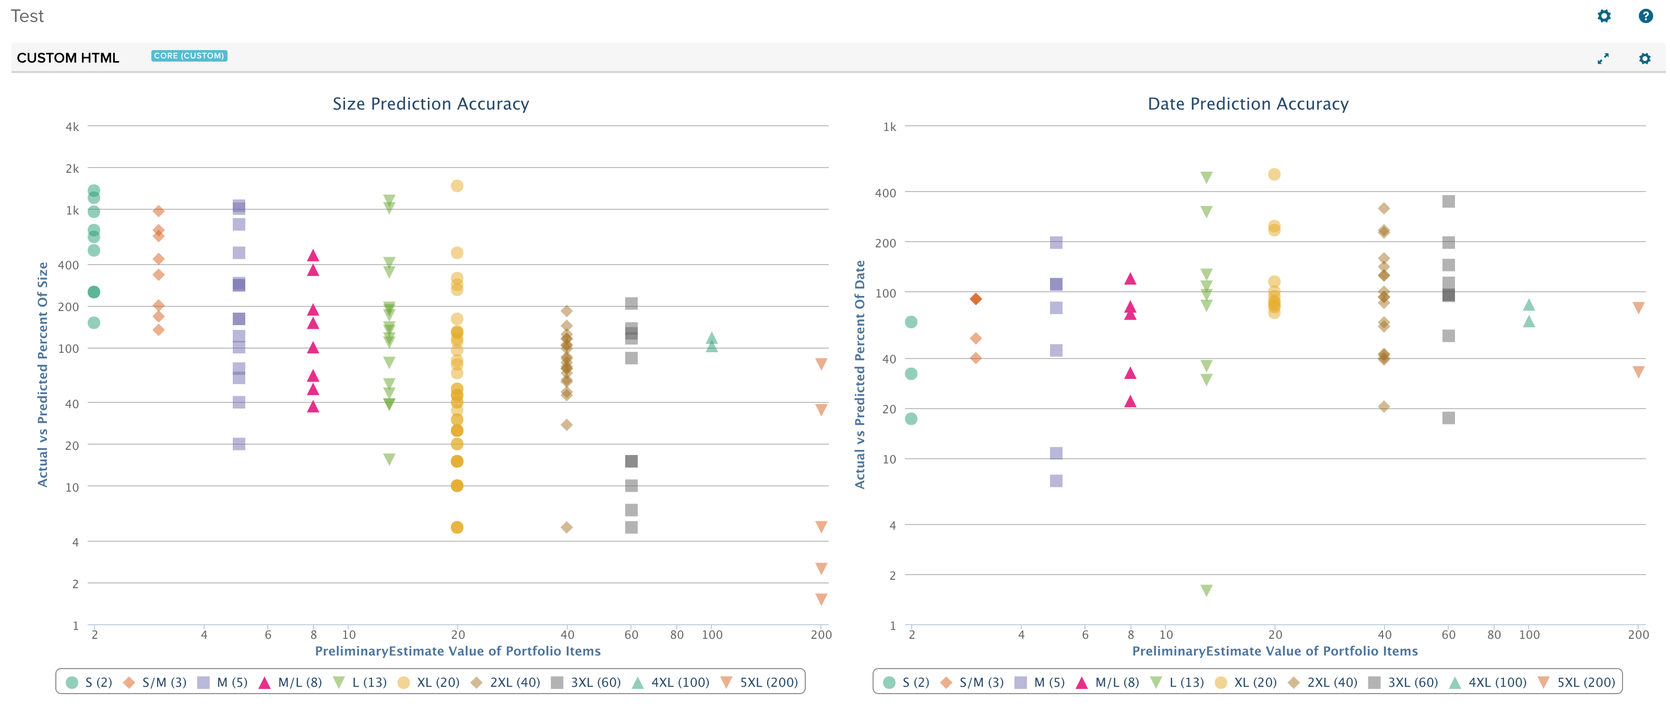
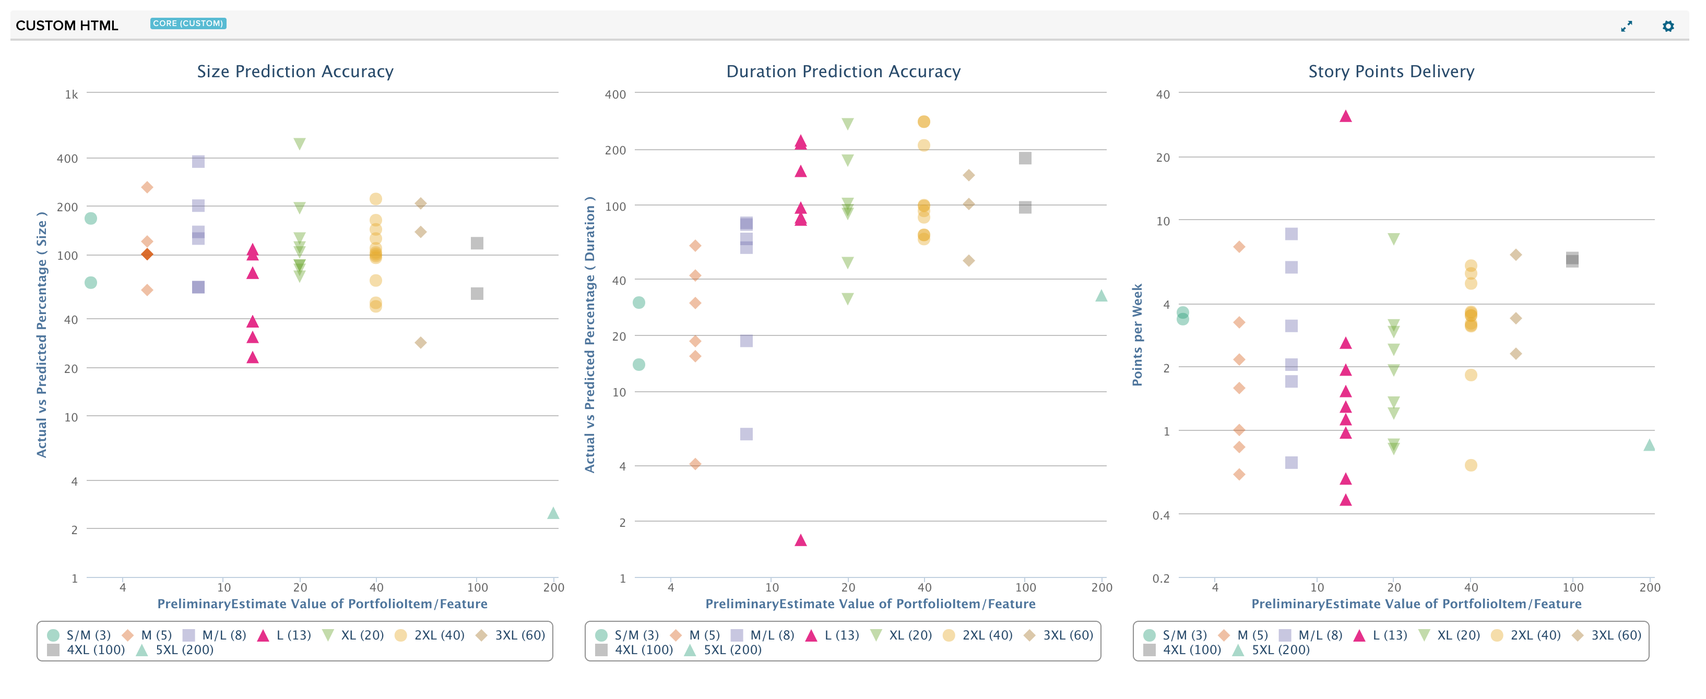
Added third chart

diff --git a/deploy/App-external.html b/deploy/App-external.html
@@ -1,16 +1,16 @@
 <!DOCTYPE html>
 <html>
 <head>
-    <title>PI Forcecast Accuracy</title>
+    <title>PI Forecast Accuracy</title>
 
     <script type="text/javascript" src="https://rally1.rallydev.com/apps/2.1/sdk.js"></script>
 
     <script type="text/javascript">
         Rally.onReady(function () {
-                Ext.define("ForcastAccuracy",{extend:"Rally.app.App",componentCls:"app",itemId:"rallyApp",progressField:"AcceptedLeafStoryCount",config:{defaultSettings:{fetchLimit:100,EndDate:new Date,StartDate:new Date(Ext.Date.now()-7776e6)}},items:[{xtype:"container",itemId:"chartBox",layout:"hbox"}],getSettingsFields:function(){return[{xtype:"rallyportfolioitemtypecombobox",name:"piType",label:" Portfolio Type",labelWidth:200,valueField:"TypePath"},{xtype:"rallynumberfield",name:"fetchLimit",label:"Max Fetch Limit",labelWidth:200,maxValue:200,minValue:1,allowDecimals:!1},{xtype:"rallydatefield",name:"StartDate",fieldLabel:"Start Date",labelWidth:200,format:"F j, Y"},{xtype:"rallydatefield",name:"EndDate",labelWidth:200,fieldLabel:"End Date",format:"F j, Y"}]},launch:function(){this.showMask("Fetching items with historical data..."),this.model=this.getSetting("piType")||"Portfolioitem/Feature",this.start=new Date(this.getSetting("StartDate")||Ext.Date.now()-7776e6),this.end=new Date(this.getSetting("EndDate")||Ext.Date.now()),this._fetchItems()},onSettingsUpdate:function(){this._clearStatus(),this._fetchItems()},_clearStatus:function(){this.store&&this.store.destroy()},showMask:function(t){this.getEl()&&(this.getEl().unmask(),this.getEl().mask(t))},hideMask:function(){this.getEl()&&this.getEl().unmask()},_fetchItems(){var t=this;t.store=Ext.create("Rally.data.wsapi.Store",{model:t.model,pageSize:t.getSetting("fetchLimit")||200,fetch:["ObjectID","FormattedID","PreliminaryEstimate","RefinedEstimate","LeafStoryCount","LeafStoryPlanEstimateTotal","PreliminaryEstimateValue","ActualStartDate","ActualEndDate","PlannedStartDate","PlannedEndDate"],autoLoad:!0,filters:[{property:"ActualEndDate",operator:"<",value:t.end},{property:"ActualEndDate",operator:">",value:t.start}],listeners:{load:function(e,a,i){if(i)if(e.getCount()){Rally.ui.notify.Notifier.show({message:"Working with "+e.getCount()+" (of "+e.totalCount+") Historical Data Items",timeout:5e3}),t.sizeMetrics=[];var r=0;for(r=0;r<e.getCount();r++)a[r].get("PreliminaryEstimate")&&t.sizeMetrics.push({groupBy:a[r].get("PreliminaryEstimate")._refObjectName,x:a[r].get("PreliminaryEstimateValue"),y:a[r].get("LeafStoryPlanEstimateTotal")/a[r].get("PreliminaryEstimateValue")*100,name:a[r].get("FormattedID")});for(t.sizeMetrics=_.sortBy(t.sizeMetrics,["x"]),t._updateSizeMetricsChart(),t.dateMetrics=[],r=0;r<e.getCount();r++){var s=a[r].get("ActualStartDate"),o=a[r].get("ActualEndDate"),n=a[r].get("PlannedStartDate"),l=a[r].get("PlannedEndDate");if(a[r].get("PreliminaryEstimate"))if(s&&o&&n&&l){var d=(new Date(o)-new Date(s))/(new Date(l)-new Date(n))*100;t.dateMetrics.push({groupBy:a[r].get("PreliminaryEstimate")._refObjectName,x:a[r].get("PreliminaryEstimateValue"),y:d,name:a[r].get("FormattedID")})}else t.dateMetrics.push({groupBy:a[r].get("PreliminaryEstimate")._refObjectName,x:a[r].get("PreliminaryEstimateValue"),y:0,name:a[r].get("FormattedID")})}t.dateMetrics=_.sortBy(t.dateMetrics,["x"]),t._updateDateMetricsChart(),t.hideMask()}else Rally.ui.notify.Notifier.showWarning({message:"No Historical Data found within date range"}),t.hideMask();else t.hideMask()}}})},_getHistoricalData:function(t,e){var a=new Deft.Deferred,i=Ext.merge({ObjectID:t.get("ObjectID")},e._getProgressField());return Ext.create("Rally.data.lookback.SnapshotStore",{autoLoad:!0,limit:1/0,compress:!0,removeUnauthorizedSnapshots:!0,pageSize:2e3,listeners:{load:function(t,i,r){r?(e.showMask("Fetched change records for "+ ++e.fetchedCount+" items"),a.resolve(t)):a.reject()}},fetch:["FormattedID","ObjectID","_ValidTo","_ValidFrom",e.progressField],find:i,sort:{_ValidFrom:1}}),a.getPromise()},_getProgressField:function(){return{}},_updateSizeMetricsChart:function(){this.down("#sizeMetricsChart")&&this.down("#sizeMetricsChart").destroy(),this._drawChart("sizeMetricsChart","Size",this.sizeMetrics)},_updateDateMetricsChart:function(){this.down("#dateMetricsChart")&&this.down("#dateMetricsChart").destroy(),this._drawChart("dateMetricsChart","Duration",this.dateMetrics)},_drawChart:function(t,e,a){var i=this,r=_.groupBy(a,"groupBy"),s=[];_.each(Object.keys(r),function(t){var e=[];_.each(r[t],function(t){e.push(t)}),s.push({name:t,data:e})}),i.down("#chartBox").add({xtype:"rallychart",width:"50%",height:600,loadMask:!1,itemId:t,chartColors:["rgba(27,158,119,0.4)","rgba(217,95,2,0.4)","rgba(117,112,179,0.4)","rgba(231,41,138)","rgba(102,166,30,0.4)","rgba(230,171,2,0.4)","rgba(166,118,29,0.4)","rgba(102,102,102,0.4)"],chartConfig:{chart:{type:"scatter"},title:{text:e+" Prediction Accuracy"},xAxis:{title:{text:"PreliminaryEstimate Value of "+i.getSetting("piType")},type:"logarithmic"},yAxis:{title:{text:"Actual vs Predicted Percentage ("+e+")"},type:"logarithmic"},tooltip:{formatter:function(){var t="<span>"+this.point.name+"</span>";return t+="<table>",t+="<tr>",t+="<td>"+i.store.findRecord("FormattedID",this.point.name).get("_refObjectName")+"</td>",t+="</tr>",t+="</table>"},shared:!0,useHTML:!0},plotOptions:{scatter:{marker:{radius:6}}}},chartData:{series:s}})}});
+                Ext.define("ForecastAccuracy",{extend:"Rally.app.App",componentCls:"app",itemId:"rallyApp",progressField:"AcceptedLeafStoryCount",config:{defaultSettings:{fetchLimit:100,EndDate:new Date,StartDate:new Date(Ext.Date.now()-7776e6)}},items:[{xtype:"container",itemId:"chartBox",layout:"hbox"}],getSettingsFields:function(){return[{xtype:"rallyportfolioitemtypecombobox",name:"piType",label:" Portfolio Type",labelWidth:200,valueField:"TypePath"},{xtype:"rallynumberfield",name:"fetchLimit",label:"Max Fetch Limit",labelWidth:200,maxValue:200,minValue:1,allowDecimals:!1},{xtype:"rallydatefield",name:"StartDate",fieldLabel:"Start Date",labelWidth:200,format:"F j, Y"},{xtype:"rallydatefield",name:"EndDate",labelWidth:200,fieldLabel:"End Date",format:"F j, Y"}]},launch:function(){this.showMask("Fetching items with historical data..."),this.model=this.getSetting("piType")||"Portfolioitem/Feature",this.start=new Date(this.getSetting("StartDate")||Ext.Date.now()-7776e6),this.end=new Date(this.getSetting("EndDate")||Ext.Date.now()),this._fetchItems()},onSettingsUpdate:function(){this._clearStatus(),this._fetchItems()},_clearStatus:function(){this.store&&this.store.destroy()},showMask:function(t){this.getEl()&&(this.getEl().unmask(),this.getEl().mask(t))},hideMask:function(){this.getEl()&&this.getEl().unmask()},_fetchItems(){var t=this;t.store=Ext.create("Rally.data.wsapi.Store",{model:t.model,pageSize:t.getSetting("fetchLimit")||200,fetch:["ObjectID","FormattedID","PreliminaryEstimate","RefinedEstimate","LeafStoryCount","LeafStoryPlanEstimateTotal","PreliminaryEstimateValue","ActualStartDate","ActualEndDate","PlannedStartDate","PlannedEndDate"],autoLoad:!0,filters:[{property:"ActualEndDate",operator:"<",value:t.end},{property:"ActualEndDate",operator:">",value:t.start}],listeners:{load:function(e,a,i){if(i)if(e.getCount()){Rally.ui.notify.Notifier.show({message:"Working with "+e.getCount()+" (of "+e.totalCount+") Historical Data Items",timeout:5e3}),t.sizeMetrics=[];var r=0;for(r=0;r<e.getCount();r++)a[r].get("PreliminaryEstimate")&&t.sizeMetrics.push({groupBy:a[r].get("PreliminaryEstimate")._refObjectName,x:a[r].get("PreliminaryEstimateValue"),y:a[r].get("LeafStoryPlanEstimateTotal")/a[r].get("PreliminaryEstimateValue")*100,name:a[r].get("FormattedID")});for(t.sizeMetrics=_.sortBy(t.sizeMetrics,["x"]),t._updateSizeMetricsChart(),t.dateMetrics=[],r=0;r<e.getCount();r++){var s=a[r].get("ActualStartDate"),o=a[r].get("ActualEndDate"),n=a[r].get("PlannedStartDate"),l=a[r].get("PlannedEndDate");if(a[r].get("PreliminaryEstimate"))if(s&&o&&n&&l){var c=(new Date(o)-new Date(s))/(new Date(l)-new Date(n))*100;t.dateMetrics.push({groupBy:a[r].get("PreliminaryEstimate")._refObjectName,x:a[r].get("PreliminaryEstimateValue"),y:c,name:a[r].get("FormattedID")})}else t.dateMetrics.push({groupBy:a[r].get("PreliminaryEstimate")._refObjectName,x:a[r].get("PreliminaryEstimateValue"),y:0,name:a[r].get("FormattedID")})}for(t.dateMetrics=_.sortBy(t.dateMetrics,["x"]),t._updateDateMetricsChart(),t.rateMetrics=[],r=0;r<e.getCount();r++){s=a[r].get("ActualStartDate"),o=a[r].get("ActualEndDate");if(a[r].get("PreliminaryEstimate"))if(s&&o){var d=6048e5*a[r].get("LeafStoryPlanEstimateTotal")/(new Date(o)-new Date(s));d<100&&t.rateMetrics.push({groupBy:a[r].get("PreliminaryEstimate")._refObjectName,x:a[r].get("PreliminaryEstimateValue"),y:d,name:a[r].get("FormattedID")})}else t.rateMetrics.push({groupBy:a[r].get("PreliminaryEstimate")._refObjectName,x:a[r].get("PreliminaryEstimateValue"),y:0,name:a[r].get("FormattedID")})}t.rateMetrics=_.sortBy(t.rateMetrics,["x"]),t._updateRateMetricsChart(),t.hideMask()}else Rally.ui.notify.Notifier.showWarning({message:"No Historical Data found within date range"}),t.hideMask();else t.hideMask()}}})},_getHistoricalData:function(t,e){var a=new Deft.Deferred,i=Ext.merge({ObjectID:t.get("ObjectID")},e._getProgressField());return Ext.create("Rally.data.lookback.SnapshotStore",{autoLoad:!0,limit:1/0,compress:!0,removeUnauthorizedSnapshots:!0,pageSize:2e3,listeners:{load:function(t,i,r){r?(e.showMask("Fetched change records for "+ ++e.fetchedCount+" items"),a.resolve(t)):a.reject()}},fetch:["FormattedID","ObjectID","_ValidTo","_ValidFrom",e.progressField],find:i,sort:{_ValidFrom:1}}),a.getPromise()},_getProgressField:function(){return{}},_updateSizeMetricsChart:function(){this.down("#sizeMetricsChart")&&this.down("#sizeMetricsChart").destroy(),this._drawChart("sizeMetricsChart","Size Prediction Accuracy","Actual vs Predicted Percentage ( Size )",this.sizeMetrics)},_updateDateMetricsChart:function(){this.down("#dateMetricsChart")&&this.down("#dateMetricsChart").destroy(),this._drawChart("dateMetricsChart","Duration Prediction Accuracy","Actual vs Predicted Percentage ( Duration )",this.dateMetrics)},_updateRateMetricsChart:function(){this.down("#rateMetricsChart")&&this.down("#rateMetricsChart").destroy(),this._drawChart("rateMetricsChart","Story Points Delivery","Points per Week",this.rateMetrics)},_drawChart:function(t,e,a,i){var r=this,s=_.groupBy(i,"groupBy"),o=[];_.each(Object.keys(s),function(t){var e=[];_.each(s[t],function(t){e.push(t)}),o.push({name:t,data:e})}),r.down("#chartBox").add({xtype:"rallychart",width:"33%",height:600,loadMask:!1,itemId:t,chartColors:["rgba(27,158,119,0.4)","rgba(217,95,2,0.4)","rgba(117,112,179,0.4)","rgba(231,41,138)","rgba(102,166,30,0.4)","rgba(230,171,2,0.4)","rgba(166,118,29,0.4)","rgba(102,102,102,0.4)"],chartConfig:{chart:{type:"scatter"},title:{text:e},xAxis:{title:{text:"PreliminaryEstimate Value of "+r.getSetting("piType")},type:"logarithmic"},yAxis:{title:{text:a},type:"logarithmic"},tooltip:{formatter:function(){var t="<span>"+this.point.name+"</span>";return t+="<table>",t+="<tr>",t+="<td>"+r.store.findRecord("FormattedID",this.point.name).get("_refObjectName")+"</td>",t+="</tr>",t+="</table>"},shared:!0,useHTML:!0},plotOptions:{scatter:{marker:{radius:6}}}},chartData:{series:o}})}});
 
-            Rally.launchApp('ForcastAccuracy', {
-                name:"PI Forcecast Accuracy",
+            Rally.launchApp('ForecastAccuracy', {
+                name:"PI Forecast Accuracy",
                 parentRepos:"",
                 version:"0.1.1"
             });

diff --git a/deploy/App.html b/deploy/App.html
@@ -1,16 +1,16 @@
 <!DOCTYPE html>
 <html>
 <head>
-    <title>PI Forcecast Accuracy</title>
+    <title>PI Forecast Accuracy</title>
 
     <script type="text/javascript" src="/apps/2.1/sdk.js"></script>
 
     <script type="text/javascript">
         Rally.onReady(function () {
-                Ext.define("ForcastAccuracy",{extend:"Rally.app.App",componentCls:"app",itemId:"rallyApp",progressField:"AcceptedLeafStoryCount",config:{defaultSettings:{fetchLimit:100,EndDate:new Date,StartDate:new Date(Ext.Date.now()-7776e6)}},items:[{xtype:"container",itemId:"chartBox",layout:"hbox"}],getSettingsFields:function(){return[{xtype:"rallyportfolioitemtypecombobox",name:"piType",label:" Portfolio Type",labelWidth:200,valueField:"TypePath"},{xtype:"rallynumberfield",name:"fetchLimit",label:"Max Fetch Limit",labelWidth:200,maxValue:200,minValue:1,allowDecimals:!1},{xtype:"rallydatefield",name:"StartDate",fieldLabel:"Start Date",labelWidth:200,format:"F j, Y"},{xtype:"rallydatefield",name:"EndDate",labelWidth:200,fieldLabel:"End Date",format:"F j, Y"}]},launch:function(){this.showMask("Fetching items with historical data..."),this.model=this.getSetting("piType")||"Portfolioitem/Feature",this.start=new Date(this.getSetting("StartDate")||Ext.Date.now()-7776e6),this.end=new Date(this.getSetting("EndDate")||Ext.Date.now()),this._fetchItems()},onSettingsUpdate:function(){this._clearStatus(),this._fetchItems()},_clearStatus:function(){this.store&&this.store.destroy()},showMask:function(t){this.getEl()&&(this.getEl().unmask(),this.getEl().mask(t))},hideMask:function(){this.getEl()&&this.getEl().unmask()},_fetchItems(){var t=this;t.store=Ext.create("Rally.data.wsapi.Store",{model:t.model,pageSize:t.getSetting("fetchLimit")||200,fetch:["ObjectID","FormattedID","PreliminaryEstimate","RefinedEstimate","LeafStoryCount","LeafStoryPlanEstimateTotal","PreliminaryEstimateValue","ActualStartDate","ActualEndDate","PlannedStartDate","PlannedEndDate"],autoLoad:!0,filters:[{property:"ActualEndDate",operator:"<",value:t.end},{property:"ActualEndDate",operator:">",value:t.start}],listeners:{load:function(e,a,i){if(i)if(e.getCount()){Rally.ui.notify.Notifier.show({message:"Working with "+e.getCount()+" (of "+e.totalCount+") Historical Data Items",timeout:5e3}),t.sizeMetrics=[];var r=0;for(r=0;r<e.getCount();r++)a[r].get("PreliminaryEstimate")&&t.sizeMetrics.push({groupBy:a[r].get("PreliminaryEstimate")._refObjectName,x:a[r].get("PreliminaryEstimateValue"),y:a[r].get("LeafStoryPlanEstimateTotal")/a[r].get("PreliminaryEstimateValue")*100,name:a[r].get("FormattedID")});for(t.sizeMetrics=_.sortBy(t.sizeMetrics,["x"]),t._updateSizeMetricsChart(),t.dateMetrics=[],r=0;r<e.getCount();r++){var s=a[r].get("ActualStartDate"),o=a[r].get("ActualEndDate"),n=a[r].get("PlannedStartDate"),l=a[r].get("PlannedEndDate");if(a[r].get("PreliminaryEstimate"))if(s&&o&&n&&l){var d=(new Date(o)-new Date(s))/(new Date(l)-new Date(n))*100;t.dateMetrics.push({groupBy:a[r].get("PreliminaryEstimate")._refObjectName,x:a[r].get("PreliminaryEstimateValue"),y:d,name:a[r].get("FormattedID")})}else t.dateMetrics.push({groupBy:a[r].get("PreliminaryEstimate")._refObjectName,x:a[r].get("PreliminaryEstimateValue"),y:0,name:a[r].get("FormattedID")})}t.dateMetrics=_.sortBy(t.dateMetrics,["x"]),t._updateDateMetricsChart(),t.hideMask()}else Rally.ui.notify.Notifier.showWarning({message:"No Historical Data found within date range"}),t.hideMask();else t.hideMask()}}})},_getHistoricalData:function(t,e){var a=new Deft.Deferred,i=Ext.merge({ObjectID:t.get("ObjectID")},e._getProgressField());return Ext.create("Rally.data.lookback.SnapshotStore",{autoLoad:!0,limit:1/0,compress:!0,removeUnauthorizedSnapshots:!0,pageSize:2e3,listeners:{load:function(t,i,r){r?(e.showMask("Fetched change records for "+ ++e.fetchedCount+" items"),a.resolve(t)):a.reject()}},fetch:["FormattedID","ObjectID","_ValidTo","_ValidFrom",e.progressField],find:i,sort:{_ValidFrom:1}}),a.getPromise()},_getProgressField:function(){return{}},_updateSizeMetricsChart:function(){this.down("#sizeMetricsChart")&&this.down("#sizeMetricsChart").destroy(),this._drawChart("sizeMetricsChart","Size",this.sizeMetrics)},_updateDateMetricsChart:function(){this.down("#dateMetricsChart")&&this.down("#dateMetricsChart").destroy(),this._drawChart("dateMetricsChart","Duration",this.dateMetrics)},_drawChart:function(t,e,a){var i=this,r=_.groupBy(a,"groupBy"),s=[];_.each(Object.keys(r),function(t){var e=[];_.each(r[t],function(t){e.push(t)}),s.push({name:t,data:e})}),i.down("#chartBox").add({xtype:"rallychart",width:"50%",height:600,loadMask:!1,itemId:t,chartColors:["rgba(27,158,119,0.4)","rgba(217,95,2,0.4)","rgba(117,112,179,0.4)","rgba(231,41,138)","rgba(102,166,30,0.4)","rgba(230,171,2,0.4)","rgba(166,118,29,0.4)","rgba(102,102,102,0.4)"],chartConfig:{chart:{type:"scatter"},title:{text:e+" Prediction Accuracy"},xAxis:{title:{text:"PreliminaryEstimate Value of "+i.getSetting("piType")},type:"logarithmic"},yAxis:{title:{text:"Actual vs Predicted Percentage ("+e+")"},type:"logarithmic"},tooltip:{formatter:function(){var t="<span>"+this.point.name+"</span>";return t+="<table>",t+="<tr>",t+="<td>"+i.store.findRecord("FormattedID",this.point.name).get("_refObjectName")+"</td>",t+="</tr>",t+="</table>"},shared:!0,useHTML:!0},plotOptions:{scatter:{marker:{radius:6}}}},chartData:{series:s}})}});
+                Ext.define("ForecastAccuracy",{extend:"Rally.app.App",componentCls:"app",itemId:"rallyApp",progressField:"AcceptedLeafStoryCount",config:{defaultSettings:{fetchLimit:100,EndDate:new Date,StartDate:new Date(Ext.Date.now()-7776e6)}},items:[{xtype:"container",itemId:"chartBox",layout:"hbox"}],getSettingsFields:function(){return[{xtype:"rallyportfolioitemtypecombobox",name:"piType",label:" Portfolio Type",labelWidth:200,valueField:"TypePath"},{xtype:"rallynumberfield",name:"fetchLimit",label:"Max Fetch Limit",labelWidth:200,maxValue:200,minValue:1,allowDecimals:!1},{xtype:"rallydatefield",name:"StartDate",fieldLabel:"Start Date",labelWidth:200,format:"F j, Y"},{xtype:"rallydatefield",name:"EndDate",labelWidth:200,fieldLabel:"End Date",format:"F j, Y"}]},launch:function(){this.showMask("Fetching items with historical data..."),this.model=this.getSetting("piType")||"Portfolioitem/Feature",this.start=new Date(this.getSetting("StartDate")||Ext.Date.now()-7776e6),this.end=new Date(this.getSetting("EndDate")||Ext.Date.now()),this._fetchItems()},onSettingsUpdate:function(){this._clearStatus(),this._fetchItems()},_clearStatus:function(){this.store&&this.store.destroy()},showMask:function(t){this.getEl()&&(this.getEl().unmask(),this.getEl().mask(t))},hideMask:function(){this.getEl()&&this.getEl().unmask()},_fetchItems(){var t=this;t.store=Ext.create("Rally.data.wsapi.Store",{model:t.model,pageSize:t.getSetting("fetchLimit")||200,fetch:["ObjectID","FormattedID","PreliminaryEstimate","RefinedEstimate","LeafStoryCount","LeafStoryPlanEstimateTotal","PreliminaryEstimateValue","ActualStartDate","ActualEndDate","PlannedStartDate","PlannedEndDate"],autoLoad:!0,filters:[{property:"ActualEndDate",operator:"<",value:t.end},{property:"ActualEndDate",operator:">",value:t.start}],listeners:{load:function(e,a,i){if(i)if(e.getCount()){Rally.ui.notify.Notifier.show({message:"Working with "+e.getCount()+" (of "+e.totalCount+") Historical Data Items",timeout:5e3}),t.sizeMetrics=[];var r=0;for(r=0;r<e.getCount();r++)a[r].get("PreliminaryEstimate")&&t.sizeMetrics.push({groupBy:a[r].get("PreliminaryEstimate")._refObjectName,x:a[r].get("PreliminaryEstimateValue"),y:a[r].get("LeafStoryPlanEstimateTotal")/a[r].get("PreliminaryEstimateValue")*100,name:a[r].get("FormattedID")});for(t.sizeMetrics=_.sortBy(t.sizeMetrics,["x"]),t._updateSizeMetricsChart(),t.dateMetrics=[],r=0;r<e.getCount();r++){var s=a[r].get("ActualStartDate"),o=a[r].get("ActualEndDate"),n=a[r].get("PlannedStartDate"),l=a[r].get("PlannedEndDate");if(a[r].get("PreliminaryEstimate"))if(s&&o&&n&&l){var c=(new Date(o)-new Date(s))/(new Date(l)-new Date(n))*100;t.dateMetrics.push({groupBy:a[r].get("PreliminaryEstimate")._refObjectName,x:a[r].get("PreliminaryEstimateValue"),y:c,name:a[r].get("FormattedID")})}else t.dateMetrics.push({groupBy:a[r].get("PreliminaryEstimate")._refObjectName,x:a[r].get("PreliminaryEstimateValue"),y:0,name:a[r].get("FormattedID")})}for(t.dateMetrics=_.sortBy(t.dateMetrics,["x"]),t._updateDateMetricsChart(),t.rateMetrics=[],r=0;r<e.getCount();r++){s=a[r].get("ActualStartDate"),o=a[r].get("ActualEndDate");if(a[r].get("PreliminaryEstimate"))if(s&&o){var d=6048e5*a[r].get("LeafStoryPlanEstimateTotal")/(new Date(o)-new Date(s));d<100&&t.rateMetrics.push({groupBy:a[r].get("PreliminaryEstimate")._refObjectName,x:a[r].get("PreliminaryEstimateValue"),y:d,name:a[r].get("FormattedID")})}else t.rateMetrics.push({groupBy:a[r].get("PreliminaryEstimate")._refObjectName,x:a[r].get("PreliminaryEstimateValue"),y:0,name:a[r].get("FormattedID")})}t.rateMetrics=_.sortBy(t.rateMetrics,["x"]),t._updateRateMetricsChart(),t.hideMask()}else Rally.ui.notify.Notifier.showWarning({message:"No Historical Data found within date range"}),t.hideMask();else t.hideMask()}}})},_getHistoricalData:function(t,e){var a=new Deft.Deferred,i=Ext.merge({ObjectID:t.get("ObjectID")},e._getProgressField());return Ext.create("Rally.data.lookback.SnapshotStore",{autoLoad:!0,limit:1/0,compress:!0,removeUnauthorizedSnapshots:!0,pageSize:2e3,listeners:{load:function(t,i,r){r?(e.showMask("Fetched change records for "+ ++e.fetchedCount+" items"),a.resolve(t)):a.reject()}},fetch:["FormattedID","ObjectID","_ValidTo","_ValidFrom",e.progressField],find:i,sort:{_ValidFrom:1}}),a.getPromise()},_getProgressField:function(){return{}},_updateSizeMetricsChart:function(){this.down("#sizeMetricsChart")&&this.down("#sizeMetricsChart").destroy(),this._drawChart("sizeMetricsChart","Size Prediction Accuracy","Actual vs Predicted Percentage ( Size )",this.sizeMetrics)},_updateDateMetricsChart:function(){this.down("#dateMetricsChart")&&this.down("#dateMetricsChart").destroy(),this._drawChart("dateMetricsChart","Duration Prediction Accuracy","Actual vs Predicted Percentage ( Duration )",this.dateMetrics)},_updateRateMetricsChart:function(){this.down("#rateMetricsChart")&&this.down("#rateMetricsChart").destroy(),this._drawChart("rateMetricsChart","Story Points Delivery","Points per Week",this.rateMetrics)},_drawChart:function(t,e,a,i){var r=this,s=_.groupBy(i,"groupBy"),o=[];_.each(Object.keys(s),function(t){var e=[];_.each(s[t],function(t){e.push(t)}),o.push({name:t,data:e})}),r.down("#chartBox").add({xtype:"rallychart",width:"33%",height:600,loadMask:!1,itemId:t,chartColors:["rgba(27,158,119,0.4)","rgba(217,95,2,0.4)","rgba(117,112,179,0.4)","rgba(231,41,138)","rgba(102,166,30,0.4)","rgba(230,171,2,0.4)","rgba(166,118,29,0.4)","rgba(102,102,102,0.4)"],chartConfig:{chart:{type:"scatter"},title:{text:e},xAxis:{title:{text:"PreliminaryEstimate Value of "+r.getSetting("piType")},type:"logarithmic"},yAxis:{title:{text:a},type:"logarithmic"},tooltip:{formatter:function(){var t="<span>"+this.point.name+"</span>";return t+="<table>",t+="<tr>",t+="<td>"+r.store.findRecord("FormattedID",this.point.name).get("_refObjectName")+"</td>",t+="</tr>",t+="</table>"},shared:!0,useHTML:!0},plotOptions:{scatter:{marker:{radius:6}}}},chartData:{series:o}})}});
 
-            Rally.launchApp('ForcastAccuracy', {
-                name:"PI Forcecast Accuracy",
+            Rally.launchApp('ForecastAccuracy', {
+                name:"PI Forecast Accuracy",
                 parentRepos:"",
                 version:"0.1.1"
             });

diff --git a/deploy/App-uncompressed.html b/deploy/App-uncompressed.html
@@ -1,13 +1,13 @@
 <!DOCTYPE html>
 <html>
 <head>
-    <title>PI Forcecast Accuracy</title>
+    <title>PI Forecast Accuracy</title>
 
     <script type="text/javascript" src="/apps/2.1/sdk.js"></script>
 
     <script type="text/javascript">
         Rally.onReady(function () {
-                Ext.define('ForcastAccuracy', {
+                Ext.define('ForecastAccuracy', {
     extend: 'Rally.app.App',
     componentCls: 'app',
     itemId: 'rallyApp',
@@ -180,7 +180,39 @@
                         }
                         me.dateMetrics = _.sortBy(me.dateMetrics, ['x']);
                         me._updateDateMetricsChart();
-                        me.hideMask();
+
+                        //Story point delivery metrics
+                        me.rateMetrics = [];
+                        for ( k = 0; k < store.getCount(); k++) {
+                             var asd = records[k].get('ActualStartDate'),
+                                 aed = records[k].get('ActualEndDate'),
+                                 pre = records[k].get('PreliminaryEstimate');
+                             if (pre) {
+                                 if (asd && aed) {
+                                     //Rate per week
+                                     var rate = (records[k].get('LeafStoryPlanEstimateTotal')* 604800000)/(new Date(aed) -  new Date(asd));
+                                     if (rate < 100) {  //Feature teams shouldn't be doing more than this. Famous last words.....
+                                        //Usually a high rate figure is caused by someone fiddling the dates/sizes due to poor practices
+                                        me.rateMetrics.push( {
+                                            groupBy: records[k].get('PreliminaryEstimate')._refObjectName,
+                                            x: records[k].get('PreliminaryEstimateValue'),
+                                            y: rate,
+                                            name: records[k].get('FormattedID')
+                                        });
+                                     }
+                                 } else {
+                                     me.rateMetrics.push ( {
+                                         groupBy: records[k].get('PreliminaryEstimate')._refObjectName,
+                                         x: records[k].get('PreliminaryEstimateValue'),
+                                         y: 0,
+                                         name: records[k].get('FormattedID')
+                                     });
+                                 }
+                             }
+                         }
+                         me.rateMetrics = _.sortBy(me.rateMetrics, ['x']);
+                         me._updateRateMetricsChart();
+                         me.hideMask();
 
                         // var histData = [];
                         // me.fetchedCount = 0;
@@ -253,15 +285,32 @@
 
     _updateSizeMetricsChart: function() {
         if (this.down('#sizeMetricsChart')){ this.down('#sizeMetricsChart').destroy();}
-        this._drawChart('sizeMetricsChart', 'Size', this.sizeMetrics);
+        this._drawChart('sizeMetricsChart', 
+            'Size Prediction Accuracy', 
+            'Actual vs Predicted Percentage ( Size )',
+            this.sizeMetrics
+        );
     },
 
     _updateDateMetricsChart: function() {
         if (this.down('#dateMetricsChart')){ this.down('#dateMetricsChart').destroy();}
-        this._drawChart('dateMetricsChart', 'Duration', this.dateMetrics);
+        this._drawChart('dateMetricsChart', 
+            'Duration Prediction Accuracy', 
+            'Actual vs Predicted Percentage ( Duration )',
+            this.dateMetrics
+        );
     },
 
-    _drawChart: function(id, title, data) {
+    _updateRateMetricsChart: function() {
+        if (this.down('#rateMetricsChart')){ this.down('#rateMetricsChart').destroy();}
+        this._drawChart('rateMetricsChart',
+            'Story Points Delivery',
+            'Points per Week', 
+            this.rateMetrics
+        );
+    },
+
+    _drawChart: function(id, title, yAxis, data) {
         var me = this;
         //Group by name so that we can create a number of series for the plot
         var groups = _.groupBy(data, 'groupBy');
@@ -280,7 +329,7 @@
         });
         me.down('#chartBox').add( {
             xtype: 'rallychart',
-            width: '50%',
+            width: '33%',
             height: 600,
             loadMask: false,
             itemId: id,
@@ -292,14 +341,14 @@
                     type: 'scatter',
                 },
                 title: { 
-                    text: title + ' Prediction Accuracy',                    
+                    text: title,                    
                 },
                 xAxis: {
                     title: { text: 'PreliminaryEstimate Value of ' + me.getSetting('piType')},
                     type: 'logarithmic'
                 },
                 yAxis: {
-                    title: { text: 'Actual vs Predicted Percentage (' + title + ')'},
+                    title: { text: yAxis},
                     type: 'logarithmic'
                 },
                 tooltip: {
@@ -332,8 +381,8 @@
 });
 
 
-            Rally.launchApp('ForcastAccuracy', {
-                name:"PI Forcecast Accuracy",
+            Rally.launchApp('ForecastAccuracy', {
+                name:"PI Forecast Accuracy",
                 parentRepos:"",
                 version:"0.1.1"
             });

diff --git a/App.js b/App.js
@@ -1,4 +1,4 @@
-Ext.define('ForcastAccuracy', {
+Ext.define('ForecastAccuracy', {
     extend: 'Rally.app.App',
     componentCls: 'app',
     itemId: 'rallyApp',
@@ -171,7 +171,39 @@ Ext.define('ForcastAccuracy', {
                         }
                         me.dateMetrics = _.sortBy(me.dateMetrics, ['x']);
                         me._updateDateMetricsChart();
-                        me.hideMask();
+
+                        //Story point delivery metrics
+                        me.rateMetrics = [];
+                        for ( k = 0; k < store.getCount(); k++) {
+                             var asd = records[k].get('ActualStartDate'),
+                                 aed = records[k].get('ActualEndDate'),
+                                 pre = records[k].get('PreliminaryEstimate');
+                             if (pre) {
+                                 if (asd && aed) {
+                                     //Rate per week
+                                     var rate = (records[k].get('LeafStoryPlanEstimateTotal')* 604800000)/(new Date(aed) -  new Date(asd));
+                                     if (rate < 100) {  //Feature teams shouldn't be doing more than this. Famous last words.....
+                                        //Usually a high rate figure is caused by someone fiddling the dates/sizes due to poor practices
+                                        me.rateMetrics.push( {
+                                            groupBy: records[k].get('PreliminaryEstimate')._refObjectName,
+                                            x: records[k].get('PreliminaryEstimateValue'),
+                                            y: rate,
+                                            name: records[k].get('FormattedID')
+                                        });
+                                     }
+                                 } else {
+                                     me.rateMetrics.push ( {
+                                         groupBy: records[k].get('PreliminaryEstimate')._refObjectName,
+                                         x: records[k].get('PreliminaryEstimateValue'),
+                                         y: 0,
+                                         name: records[k].get('FormattedID')
+                                     });
+                                 }
+                             }
+                         }
+                         me.rateMetrics = _.sortBy(me.rateMetrics, ['x']);
+                         me._updateRateMetricsChart();
+                         me.hideMask();
 
                         // var histData = [];
                         // me.fetchedCount = 0;
@@ -244,15 +276,32 @@ Ext.define('ForcastAccuracy', {
 
     _updateSizeMetricsChart: function() {
         if (this.down('#sizeMetricsChart')){ this.down('#sizeMetricsChart').destroy();}
-        this._drawChart('sizeMetricsChart', 'Size', this.sizeMetrics);
+        this._drawChart('sizeMetricsChart', 
+            'Size Prediction Accuracy', 
+            'Actual vs Predicted Percentage ( Size )',
+            this.sizeMetrics
+        );
     },
 
     _updateDateMetricsChart: function() {
         if (this.down('#dateMetricsChart')){ this.down('#dateMetricsChart').destroy();}
-        this._drawChart('dateMetricsChart', 'Duration', this.dateMetrics);
+        this._drawChart('dateMetricsChart', 
+            'Duration Prediction Accuracy', 
+            'Actual vs Predicted Percentage ( Duration )',
+            this.dateMetrics
+        );
     },
 
-    _drawChart: function(id, title, data) {
+    _updateRateMetricsChart: function() {
+        if (this.down('#rateMetricsChart')){ this.down('#rateMetricsChart').destroy();}
+        this._drawChart('rateMetricsChart',
+            'Story Points Delivery',
+            'Points per Week', 
+            this.rateMetrics
+        );
+    },
+
+    _drawChart: function(id, title, yAxis, data) {
         var me = this;
         //Group by name so that we can create a number of series for the plot
         var groups = _.groupBy(data, 'groupBy');
@@ -271,7 +320,7 @@ Ext.define('ForcastAccuracy', {
         });
         me.down('#chartBox').add( {
             xtype: 'rallychart',
-            width: '50%',
+            width: '33%',
             height: 600,
             loadMask: false,
             itemId: id,
@@ -283,14 +332,14 @@ Ext.define('ForcastAccuracy', {
                     type: 'scatter',
                 },
                 title: { 
-                    text: title + ' Prediction Accuracy',                    
+                    text: title,                    
                 },
                 xAxis: {
                     title: { text: 'PreliminaryEstimate Value of ' + me.getSetting('piType')},
                     type: 'logarithmic'
                 },
                 yAxis: {
-                    title: { text: 'Actual vs Predicted Percentage (' + title + ')'},
+                    title: { text: yAxis},
                     type: 'logarithmic'
                 },
                 tooltip: {
